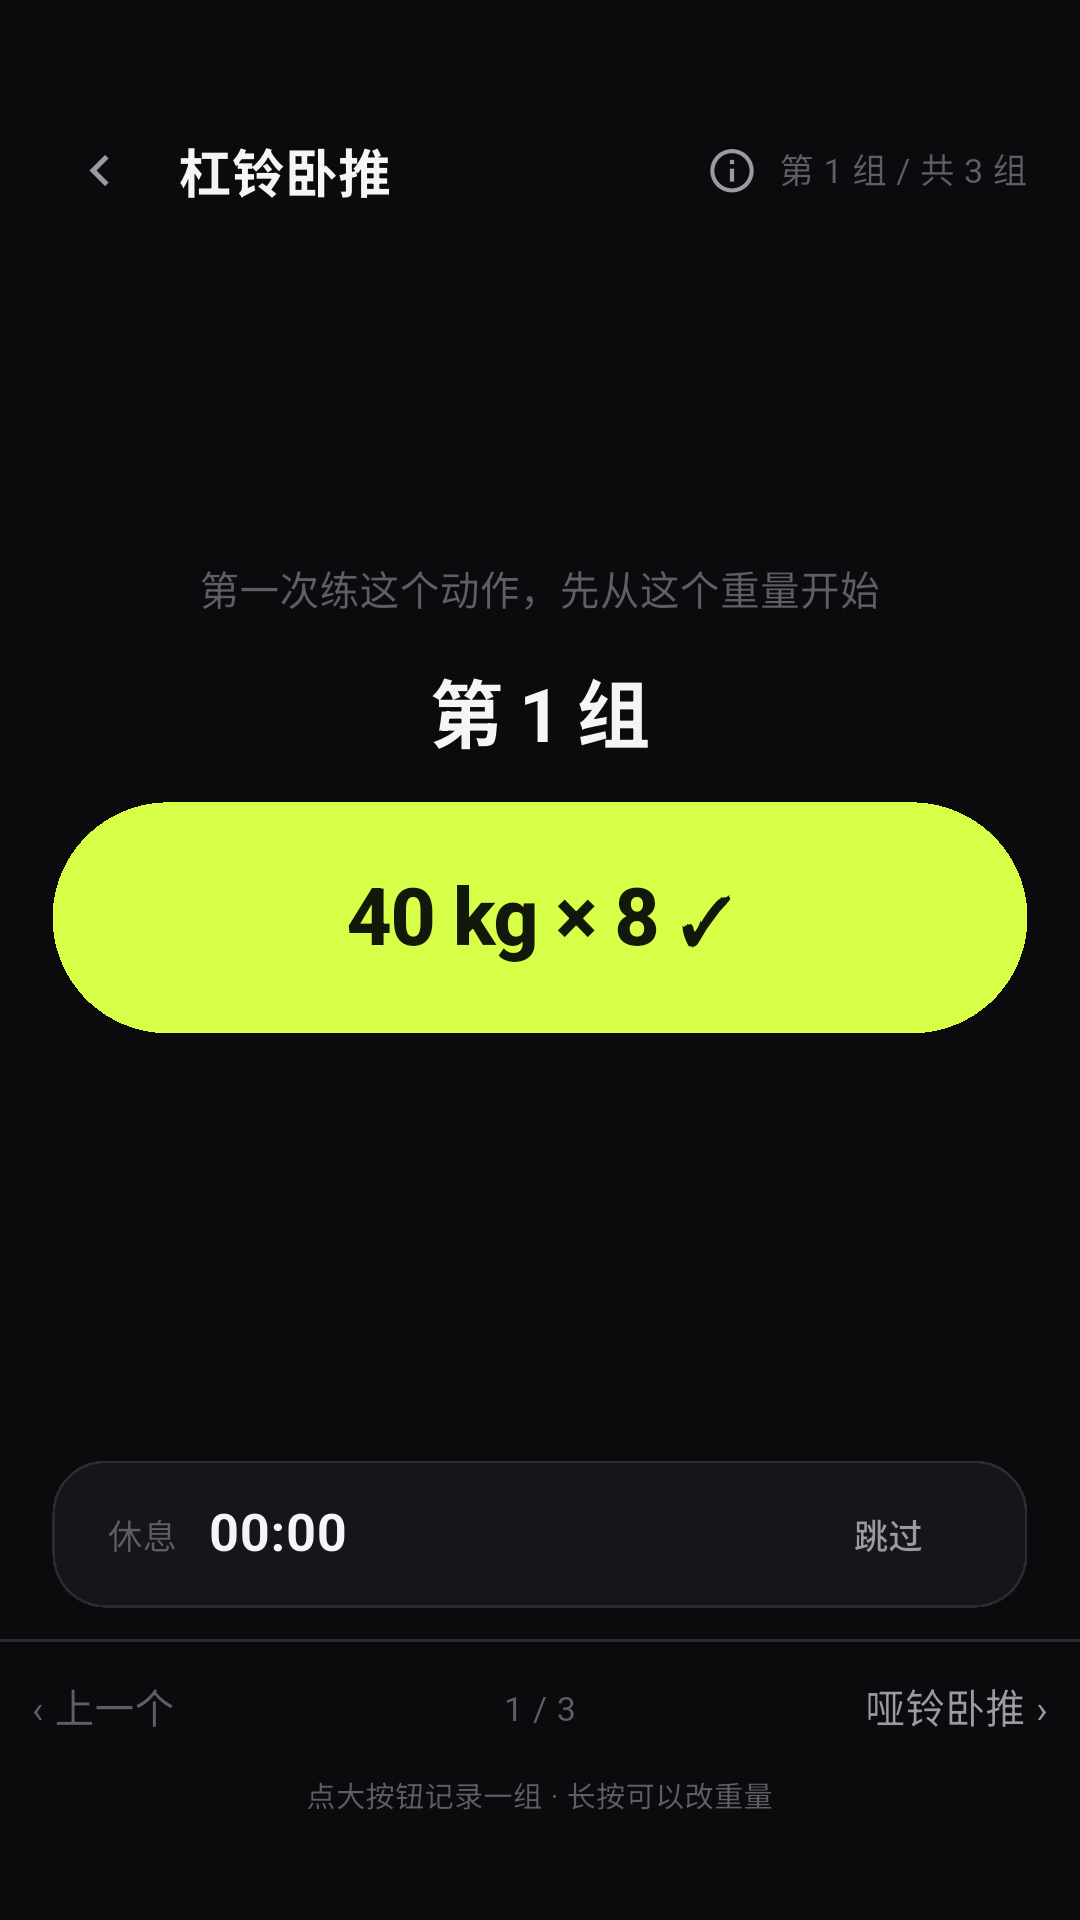
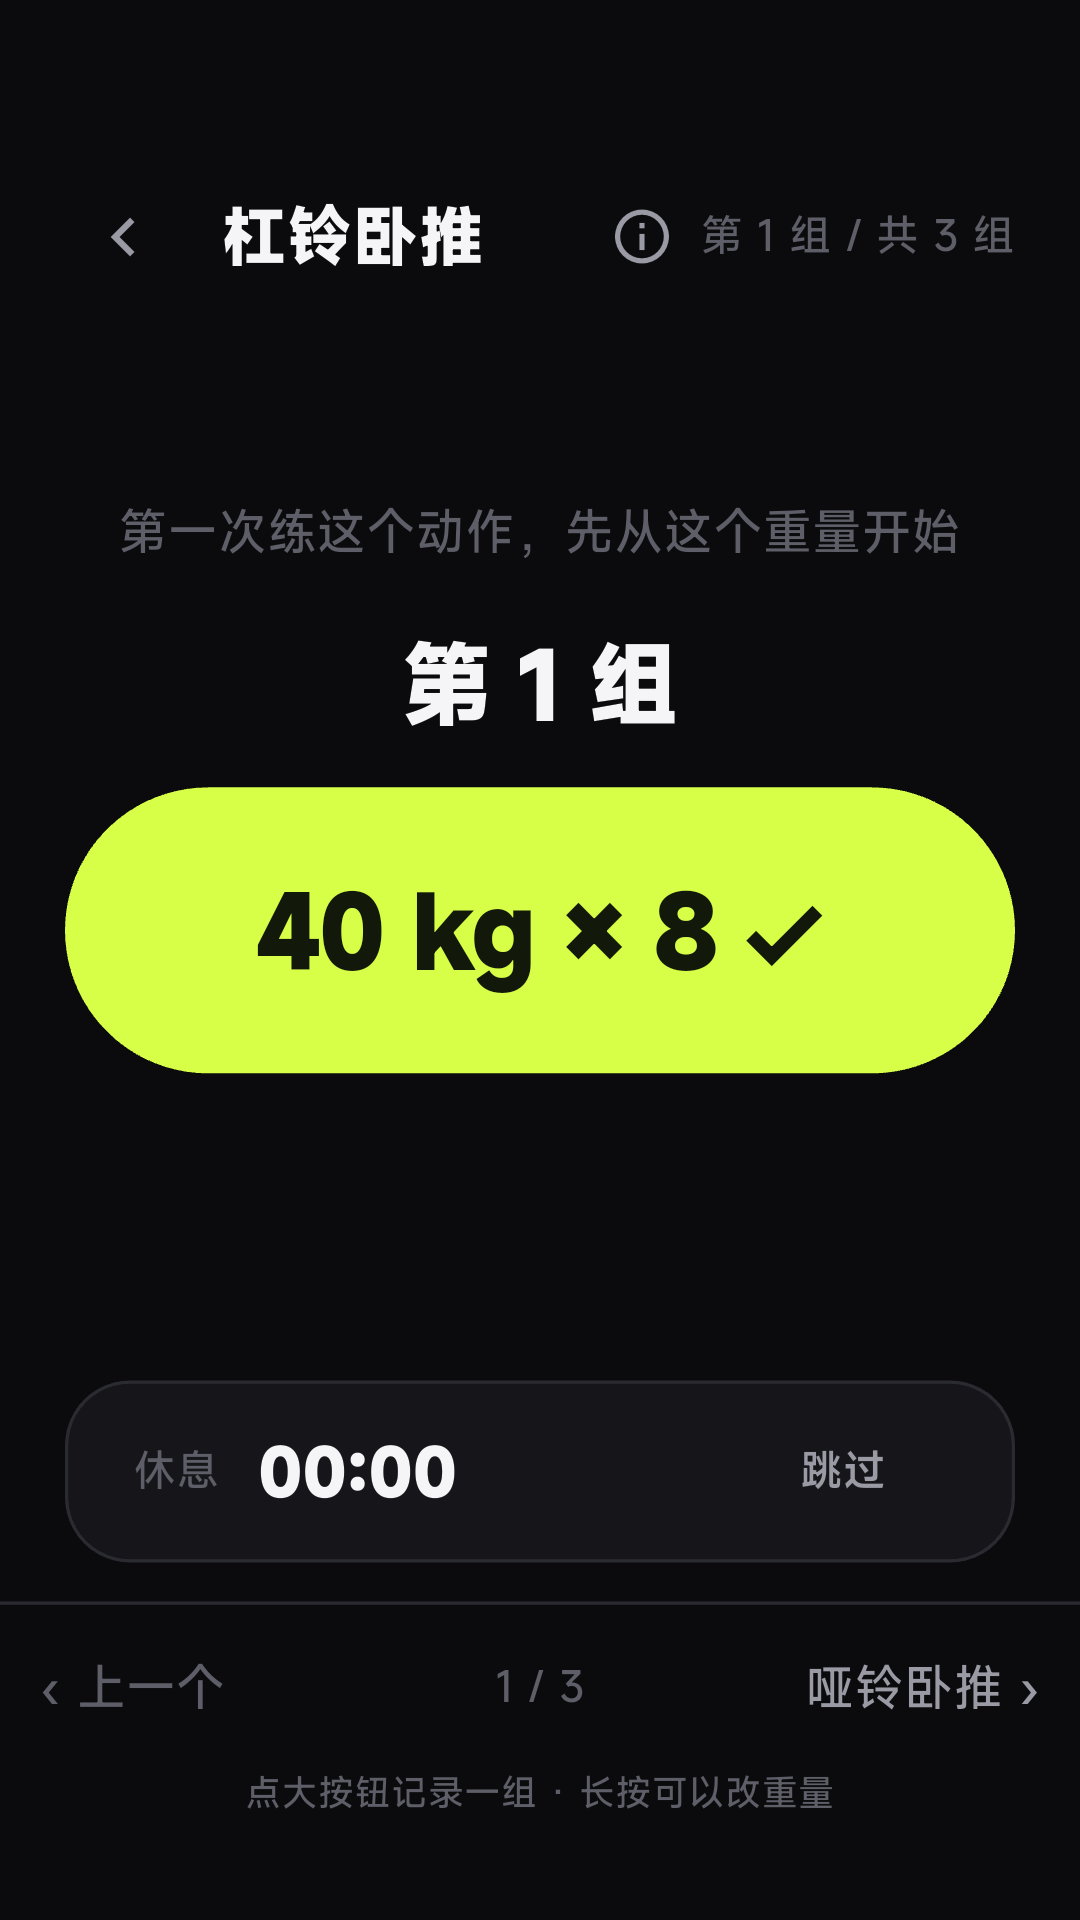
chore(store-assets): 两套商店截图在**真机**上整套重跑（v1.28/v1.29 的界面变化）
v1.28.0 改了同意门与「我」页隐私开关的文案与默认值，v1.29.0 又加了
「个人信息收集清单」入口 —— 上一批截图是那之前的界面。趁手机解锁，在真机
（Redmi flourite / Android 16 / API 36）上把两套都重跑：

  store-assets/screenshots/       1080×2400（wm size 1080x2400） 11 张
  store-assets/screenshots-play/  1080×1920（wm size 1080x1920） 11 张（Google Play 要 9:16）

两次都是 11 步全过、0 失败（日志里的 LIANLEME-SHOT-SUMMARY），抓的是 Flutter 自己的
surface、不含系统状态栏，与上一批风格一致。跑完立刻 wm size reset（真机尺寸恢复
1280×2772）并重新装回 release 包 1.29.0（drive 装的是调试包）。

⚠ 这**仍然不等于"用手指走一遍"的验收**：自动化点的是坐标与 key，手感、误触、
单手可达性它测不到 —— 那条依旧挂在 docs/your-todo.md 里，我没有把它标成已完成。
docs/screenshots.md 的来源说明也照实改了（真机 vs 无头模拟器、以及这条边界）。

只动素材与文档，不动 app/ 代码 → 不切版。verify.sh 六层全绿（730 项）。

diff --git a/CHANGELOG.md b/CHANGELOG.md
@@ -32,8 +32,22 @@
 `DEVELOPER_DIR=/Library/Developer/CommandLineTools` 包一层 `xcrun`，
 并直接调 `flutter_tools.snapshot` 与 `dart-sdk/bin/dart`。iOS 构建仍然要正式的许可证。
 
-版本 1.28.0+37 → 1.29.0+38。
+### 同版追加：两套商店截图在**真机**上整套重跑（v1.28.0/v1.29.0 的界面变化）
 
+v1.28.0 改了同意门与「我」页隐私开关的文案与默认值，v1.29.0 又新增了
+「个人信息收集清单」入口 —— 上一批截图是那之前的界面。于是在真机
+（Redmi `flourite` / Android 16）上整套重跑，两套都取自**同一台真机**：
+
+| 目标 | 尺寸 | 张数 |
+|---|---|---|
+| `store-assets/screenshots/`（软著 / 国内商店） | 1080×2400（`wm size 1080x2400`） | 11（+ `01b` 那张 `adb screencap` 的旧图） |
+| `store-assets/screenshots-play/`（Google Play，9:16） | 1080×1920（`wm size 1080x1920`） | 11 |
+
+两次都是 11 步全过、0 失败，跑完立刻 `wm size reset`（真机尺寸恢复 1280×2772，
+并重新装回 release 包 1.29.0）。**这仍然不等于"用手指走一遍"的验收** ——
+自动化点的是坐标与 key，手感、误触、单手可达性它测不到；那条还挂在待办里。
+
+版本 1.28.0+37 → 1.29.0+38。
 ## v1.28.0 · 匿名统计默认**关**：非必需的收集要用户主动开启（审计 A 的后半段）
 
 审计认定的第一条（也是它认为最可能被驳回的一条）分两半：前半段在 v1.27.0 修掉了

diff --git a/docs/screenshots.md b/docs/screenshots.md
@@ -133,10 +133,13 @@ adb -s emulator-5554 install -r "dist/练了么-v<版本>.apk"
 
 尺寸（如实记，不藏着）：
 
-- **2026-09-30 在无头模拟器（Pixel 6 / API 36 / 1080×2400）上整套重跑过**，
-  11 张现在都是 **1080×2400**（`integration_test` 抓 Flutter 自己的 surface，不含系统状态栏）。
-  重跑的原因：上一批是 **v1.17.0** 的界面，而那之后加了动作详情页与"练完拉伸一下"，
-  说明书与商店图会跟实际界面不一致。
+- **2026-09-30 又在真机上整套重跑过**（Redmi `flourite` / Android 16 / API 36）：
+  国内那套 `wm size 1080x2400`、Play 那套 `wm size 1080x1920`，两套都是同一台真机、
+  `integration_test` 抓 Flutter 自己的 surface（**不含系统状态栏**），爬完立刻 `wm size reset`。
+  重跑的原因：v1.28.0 改了同意门与「我」页的隐私开关文案与默认值、v1.29.0 又新增了
+  「个人信息收集清单」入口 —— 上一批截图是那之前的界面。
+  > 真机与模拟器的差别：Doze / 厂商后台策略 / 真实字体渲染都更接近用户手里的样子；
+  > 但**这一套仍然不能替代"用手指走一遍"的验收**（自动化点的是坐标与 key，不是手感）。
 - `01b-home-fresh-install.png` 是 **`adb screencap` 抓的整屏**（含状态栏）
 
 商店通常逐张接收、不要求尺寸一致；若要统一，用 11 张那套即可（它自己也齐了）。
